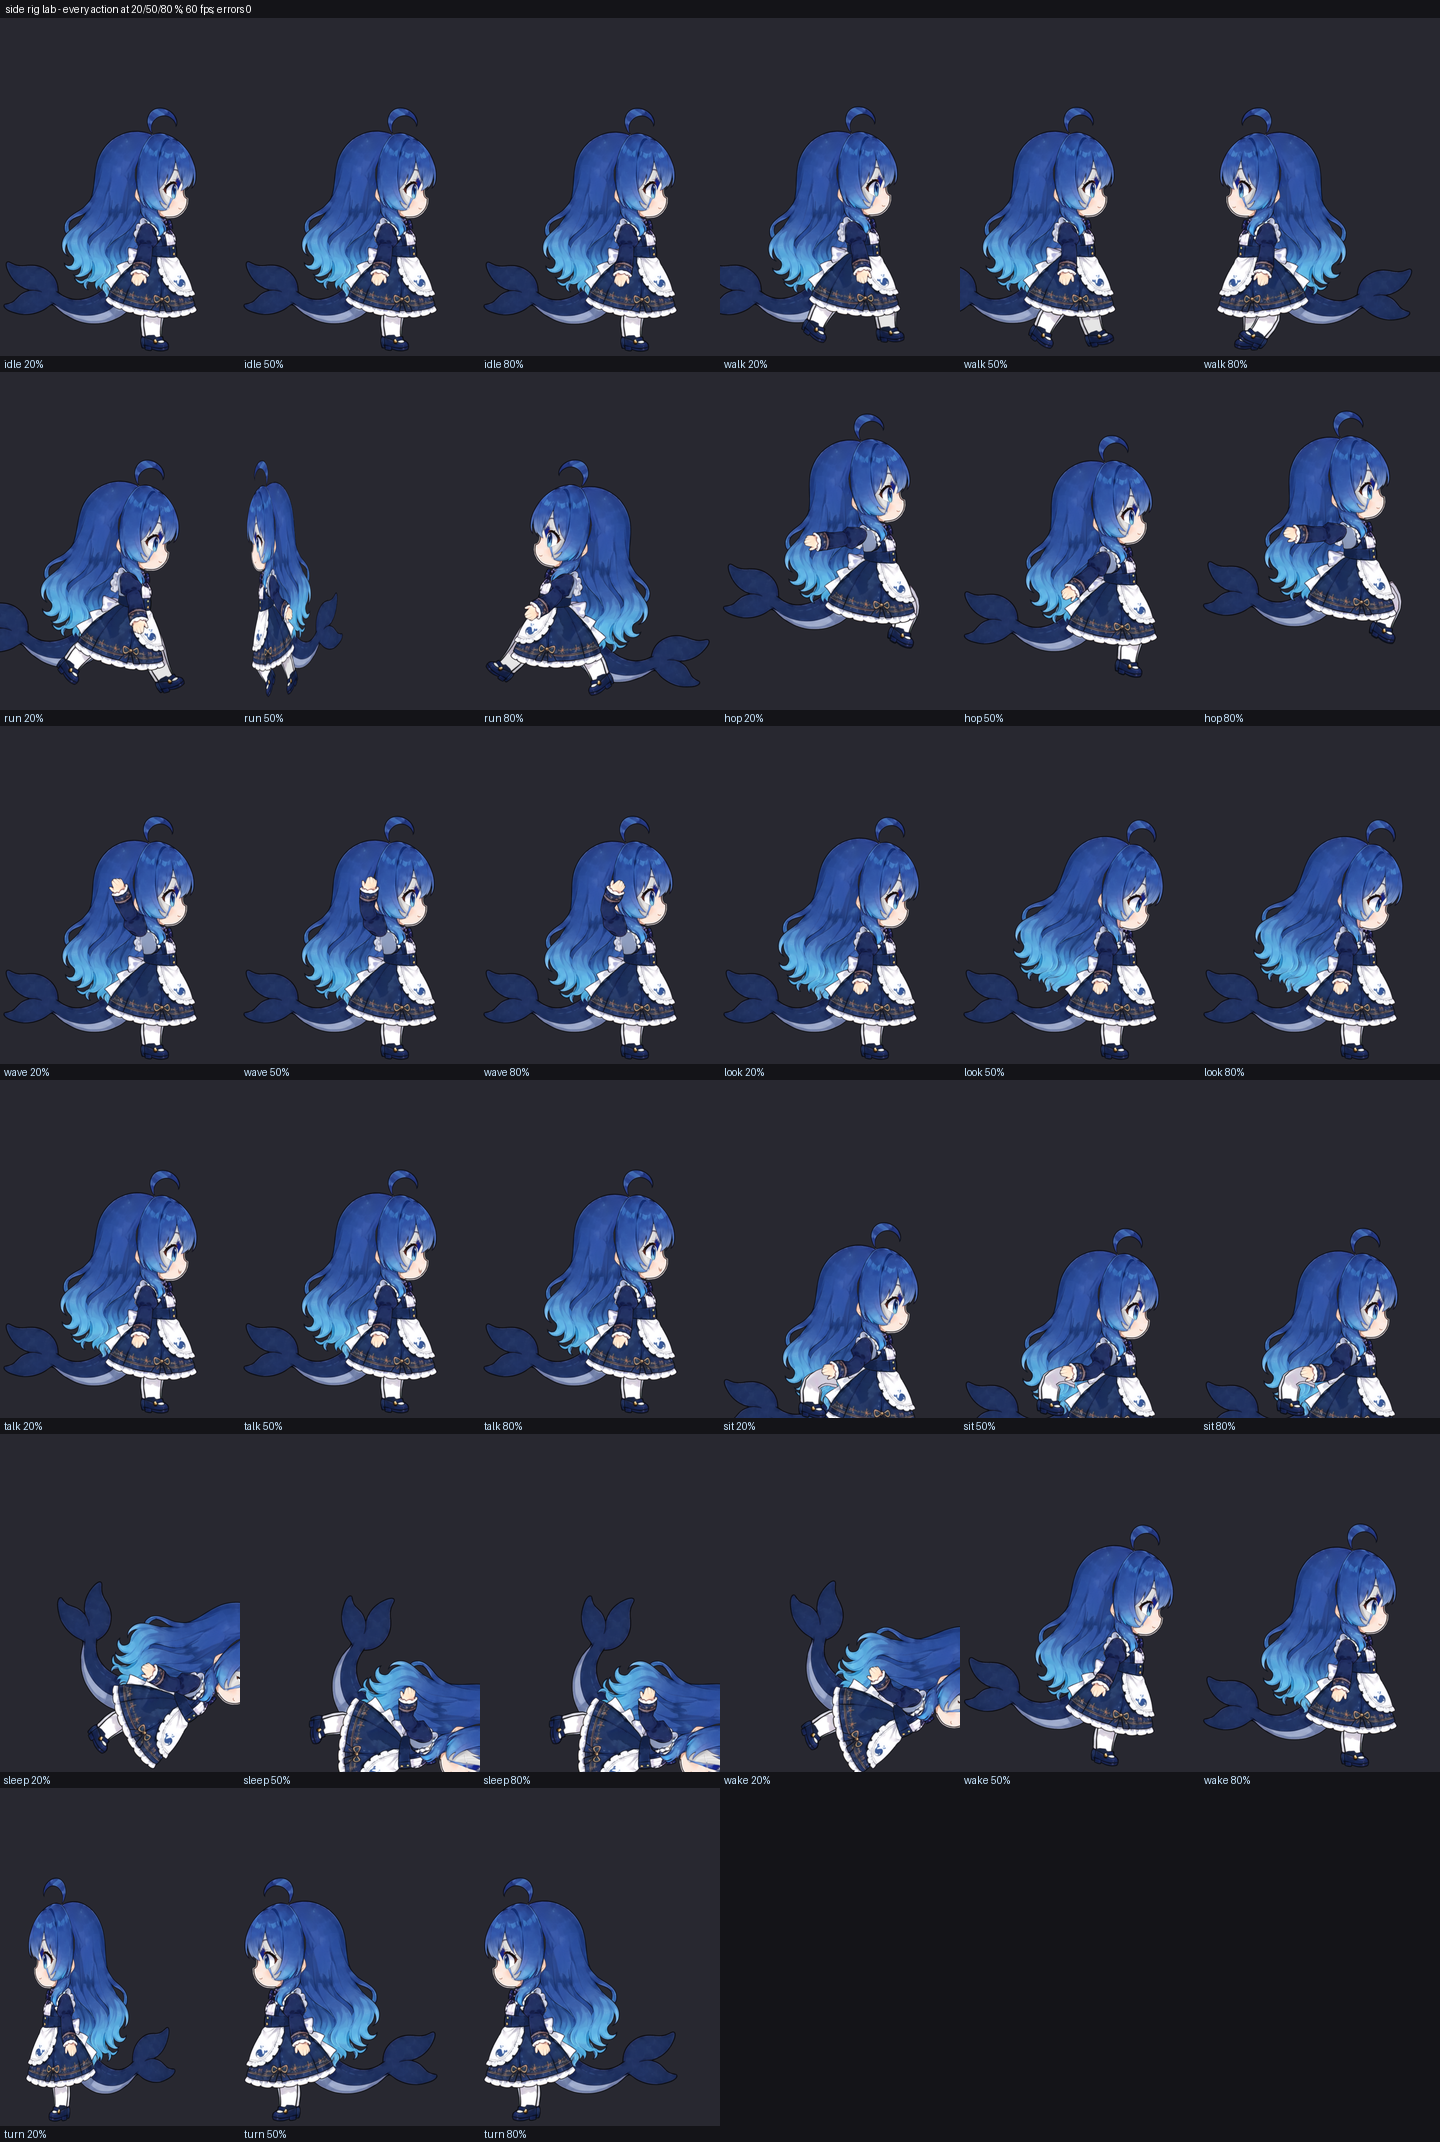
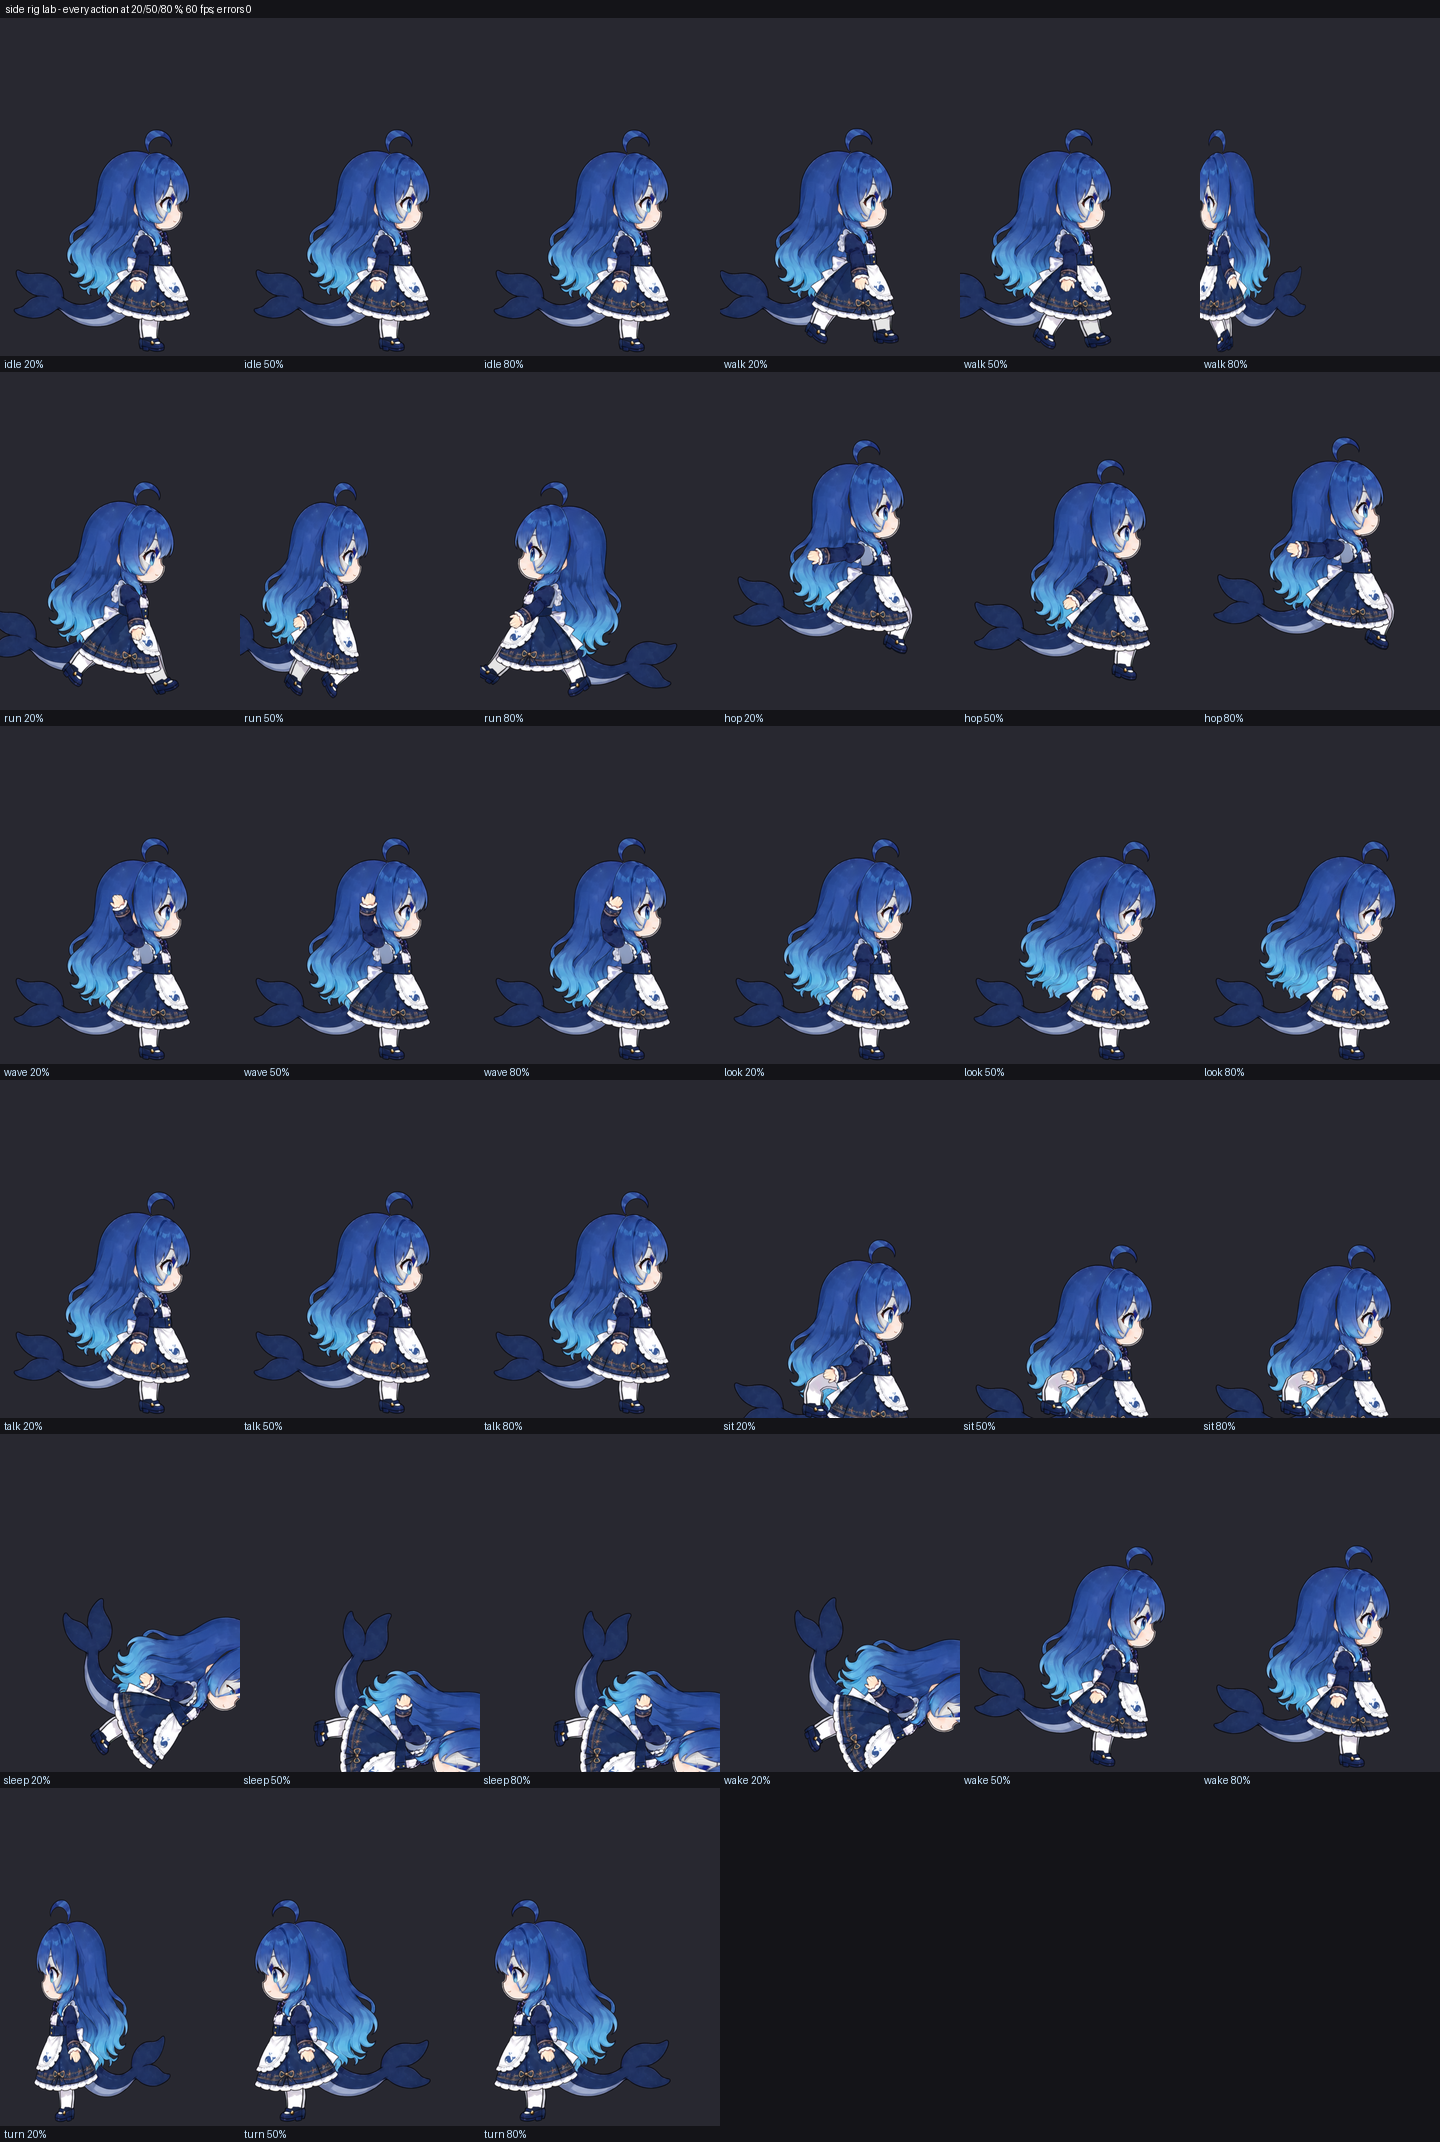
spike(side_rig): wider view so the lying pose fits
Claude-Session: https://claude.ai/code/session_01CmQpKHsjYnEbt9fVzhg7Ce

diff --git a/spikes/side_rig/rig.js b/spikes/side_rig/rig.js
@@ -18,7 +18,7 @@ renderer.setSize(window.innerWidth, window.innerHeight);
 renderer.outputColorSpace = THREE.SRGBColorSpace;
 document.body.appendChild(renderer.domElement);
 const scene = new THREE.Scene();
-const VIEW_H = 2.6;
+const VIEW_H = 2.85;
 const aspect = window.innerWidth / window.innerHeight;
 const camera = new THREE.OrthographicCamera(-VIEW_H * aspect / 2, VIEW_H * aspect / 2, VIEW_H / 2, -VIEW_H / 2, -10, 10);
 camera.position.z = 5;
